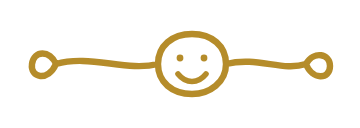
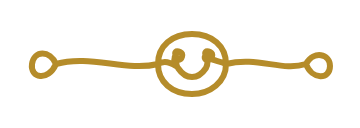
ニコマルの目と口も一本の線で描く

diff --git a/図/ワンポイントデザイン案.md b/図/ワンポイントデザイン案.md
@@ -11,9 +11,9 @@
 
 ![両端の点を糸でつなぎ、中央に丸い笑顔のニコマルを置いたワンポイント](デザイン案/糸のしるし.png)
 
-両端の小さな輪を保護者と保育士という二つの点に見立てる。**一本の糸が左の輪から中央の丸いニコマルを通り、右の輪へ続く。** 顔には丸い輪郭、二つの目、笑う口を残した。輪郭と左右の糸は同じ細さ・同じ色でつなぎ、`README.md` の「点を線でつなぐ」コンセプトとワンポイントとしての軽さを両立する。顔は園児の状態や感情を表すものではない。
+両端の小さな輪を保護者と保育士という二つの点に見立てる。**一本の糸が左の輪から中央の丸いニコマルを通り、右の輪へ続く。** 顔の輪郭に加え、二つの目を小さな輪で、笑う口を曲線で同じ糸に組み込んだ。`README.md` の「点を線でつなぐ」コンセプトとワンポイントとしての軽さを両立する。顔は園児の状態や感情を表すものではない。
 
-輪郭と左右の糸を**切れ目のない一つのパス**で描く。両端の輪を正円にせず、糸の緩みが見えるよう左右を少し変える。色は**仮値**で、糸と顔を `#B58C2A` とした。
+両端の輪・顔の輪郭・目・口を**切れ目のない一つのパス**で描く。両端の輪を正円にせず、糸の緩みが見えるよう左右を少し変える。色は**仮値**で、糸と顔を `#B58C2A` とした。
 
 ## 置き方の例
 
@@ -29,7 +29,7 @@
 ## 使用上のルール案
 
 - SVG を元データとし、拡大縮小しても線が崩れないようにする。PNG は閲覧用の画像である。
-- 小さすぎると目と口が消えるため、表示幅は**120px以上**を目安にする。最終値は実画面で確認する。
+- 一筆書きの目と口は小さすぎると潰れるため、表示幅は**160px以上**を目安にする。最終値は実画面で確認する。
 - 写真、入力欄、警告、午睡チェックの時刻、発達チェックの記録値には重ねない。
 - 情報を伝えるアイコンではなく装飾として使う。実装する場合、読み上げには同じ意味を繰り返さないよう扱う。
 - この図案で発達の程度や園児の状態を表さない。
